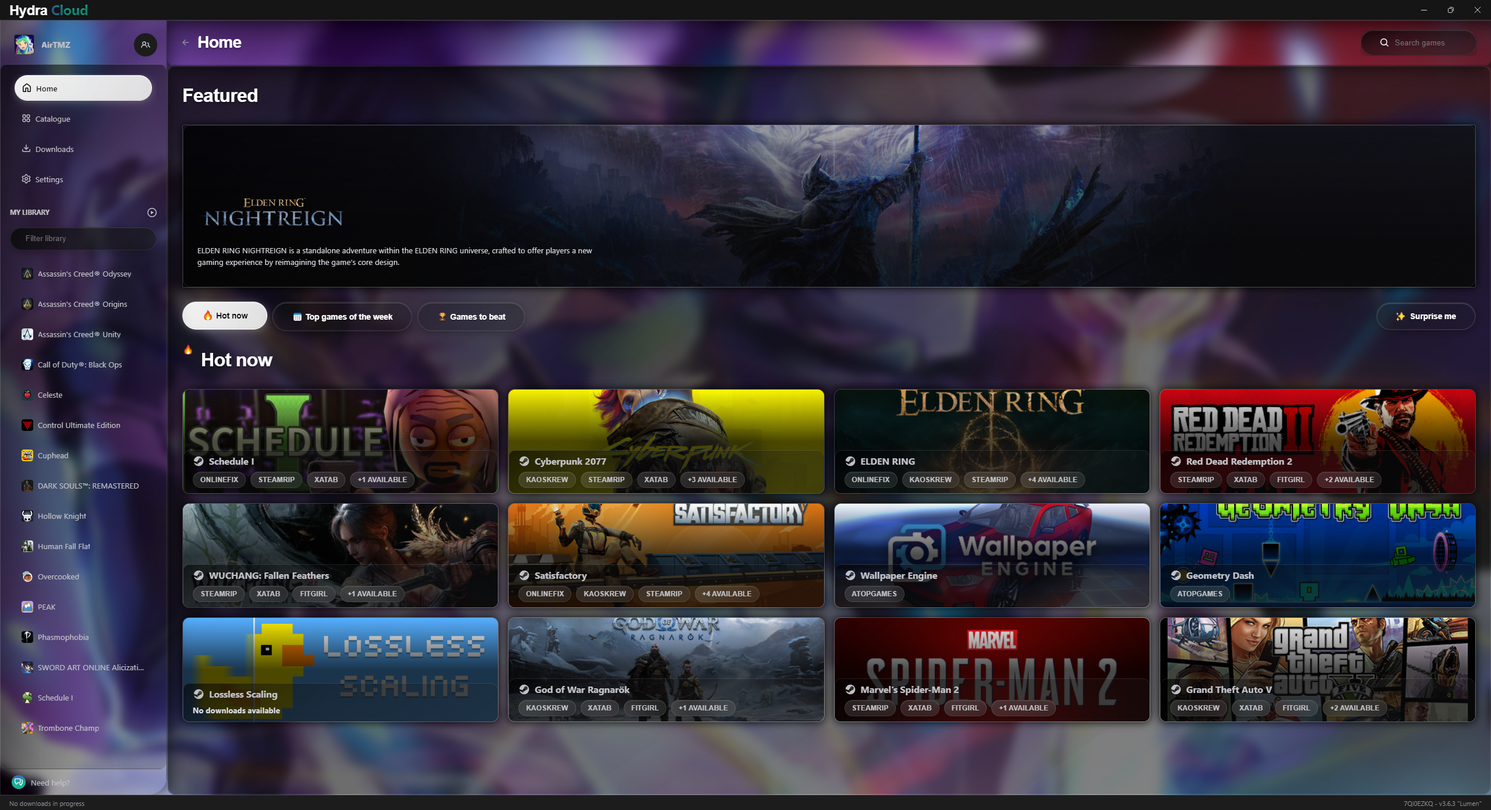
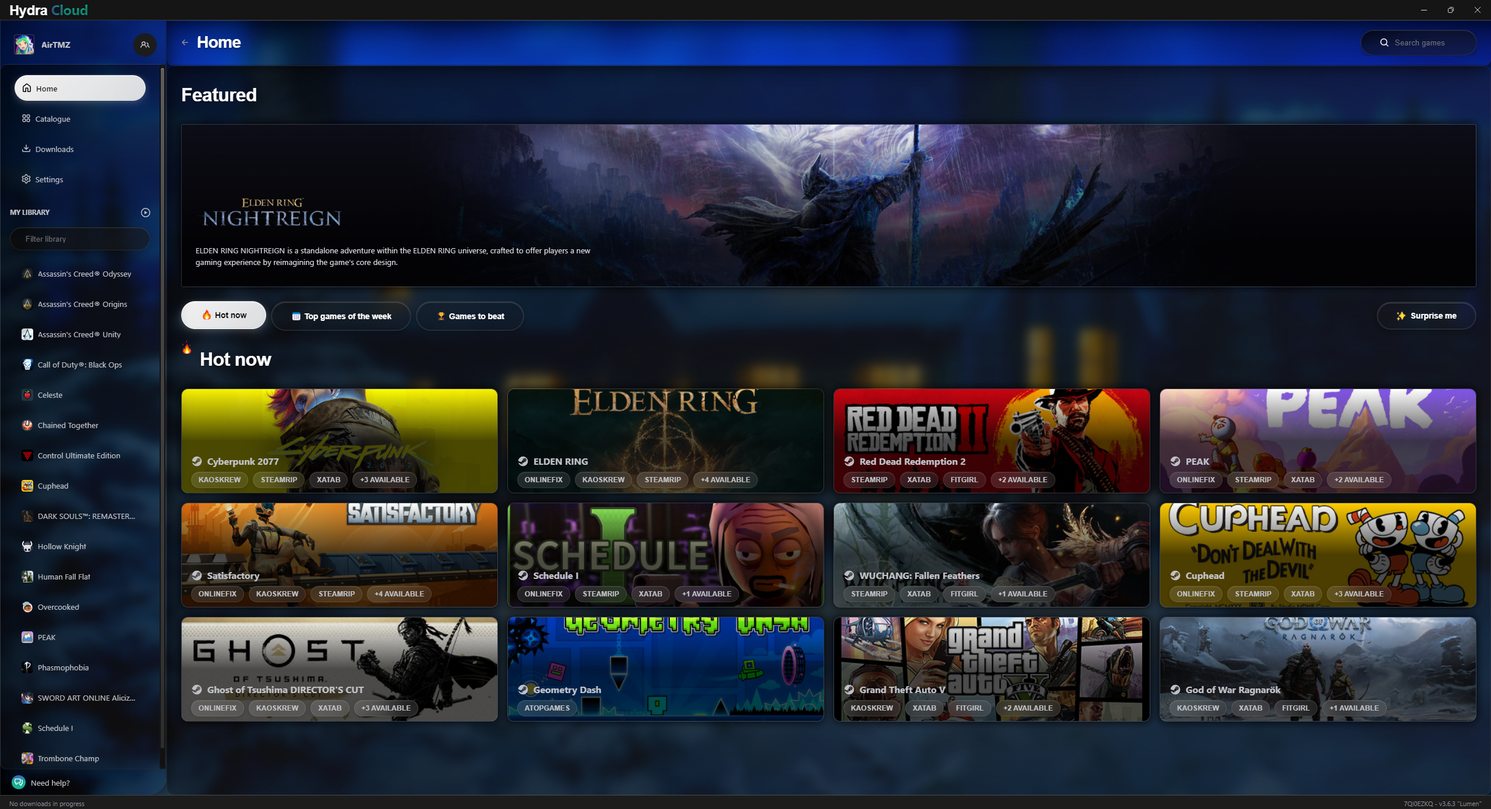
fixes

diff --git a/themes/Air's Nebula Glass Theme-mQ8oV2wy/theme.css b/themes/Air's Nebula Glass Theme-mQ8oV2wy/theme.css
@@ -122,11 +122,11 @@
   
   /* 
    * Border radius system - Semantic naming for consistent visual hierarchy
-   * Three-tier system: pills for buttons, medium for sidebar, minimal for content
+   * Three-tier system: pills for small buttons, medium for sidebar, minimal for content
    */
-  --radius-minimal: 12px;          /* Content boxes, headers, small elements */
-  --radius-medium: 32px;           /* Sidebar, larger containers */
-  --radius-pill: 50px;             /* Buttons, interactive elements that should be pills */
+  --radius-minimal: 12px;          /* Content boxes, large buttons, containers */
+  --radius-medium: 32px;           /* Sidebar only */
+  --radius-pill: 50px;             /* Small buttons, interactive elements that should be pills */
   
   /* 
    * Spacing system - Consistent spacing throughout the interface
@@ -628,11 +628,49 @@ html {
 }
 
 /* Apple-authentic liquid glass buttons */
-/* General button styles - ensure actual buttons are pills */
-.button:not(.game-item):not([class*="content"]):not([class*="card"]):not([class*="hero"]):not([class*="help"]):not([class*="gallery-slider"]):not([class*="sidebar-section"]),
-button:not(.game-item):not([class*="content"]):not([class*="card"]):not([class*="hero"]):not([class*="help"]):not([class*="gallery-slider"]):not([class*="sidebar-section"]),
-[class*="button"]:not(.game-item):not([class*="content"]):not([class*="card"]):not([class*="hero"]):not([class*="help"]):not([class*="sidebar__help"]):not([class*="gallery-slider"]):not([class*="sidebar-section"]) {
-  border-radius: var(--radius-pill) !important;  /* Force actual buttons to be pills */
+/* 
+ * SMART PILL SYSTEM - Size and Context Based Border Radius
+ * Small buttons = Pills (50px)
+ * Large buttons = Minimal radius (12px) 
+ * Sidebar = Medium radius (32px)
+ */
+
+/* Reset all buttons to minimal radius first (12px for large buttons) */
+.button,
+button,
+[class*="button"] {
+  border-radius: var(--radius-minimal) !important;
+}
+
+/* Small buttons and special contexts should be pills */
+.button:not(.game-item):not([class*="content"]):not([class*="card"]):not([class*="gallery-slider"]):not([class*="sidebar-section"]):not([class*="modal__repacks"]):not([class*="repacks-modal"]),
+button:not(.game-item):not([class*="content"]):not([class*="card"]):not([class*="gallery-slider"]):not([class*="sidebar-section"]):not([class*="modal__repacks"]):not([class*="repacks-modal"]),
+[class*="button"]:not(.game-item):not([class*="content"]):not([class*="card"]):not([class*="sidebar__help"]):not([class*="gallery-slider"]):not([class*="sidebar-section"]):not([class*="modal__repacks"]):not([class*="repacks-modal"]) {
+  border-radius: var(--radius-pill) !important;  /* Small buttons are pills */
+}
+
+/* Force specific button types to always be pills regardless of size */
+.button--outline,
+.hero-panel-actions__action,
+.sidebar__menu-item-button,
+.tab-button,
+[class*="nav-button"],
+[class*="menu-button"],
+[class*="filter-button"],
+[class*="tag-button"],
+[class*="chip-button"] {
+  border-radius: var(--radius-pill) !important;  /* Always pills for UI consistency */
+}
+
+/* Large modal and dialog buttons should have minimal radius (12px) */
+.repacks-modal__repacks .button,
+.repacks-modal__repacks button,
+.repacks-modal__repacks [class*="button"],
+[class*="modal"] .button:not(.button--outline):not([class*="nav"]):not([class*="filter"]),
+[class*="modal"] button:not(.button--outline):not([class*="nav"]):not([class*="filter"]),
+[class*="dialog"] .button:not(.button--outline):not([class*="nav"]):not([class*="filter"]),
+[class*="dialog"] button:not(.button--outline):not([class*="nav"]):not([class*="filter"]) {
+  border-radius: var(--radius-minimal) !important;  /* Large modal buttons use minimal radius (12px) */
 }
 
 /* Ensure content boxes have proper 12px border radius */

diff --git a/themes/Air's Glass Theme-mQ8oV2wy/theme.css b/themes/Air's Glass Theme-mQ8oV2wy/theme.css
@@ -140,11 +140,11 @@
   
   /* 
    * Border radius system - Semantic naming for consistent visual hierarchy
-   * Three-tier system: pills for buttons, medium for sidebar, minimal for content
+   * Three-tier system: pills for small buttons, medium for sidebar, minimal for content
    */
-  --radius-minimal: 12px;          /* Content boxes, headers, small elements */
-  --radius-medium: 32px;           /* Sidebar, larger containers */
-  --radius-pill: 50px;             /* Buttons, interactive elements that should be pills */
+  --radius-minimal: 12px;          /* Content boxes, large buttons, containers */
+  --radius-medium: 32px;           /* Sidebar only */
+  --radius-pill: 50px;             /* Small buttons, interactive elements that should be pills */
   
   /* 
    * Spacing system - Consistent spacing throughout the interface
